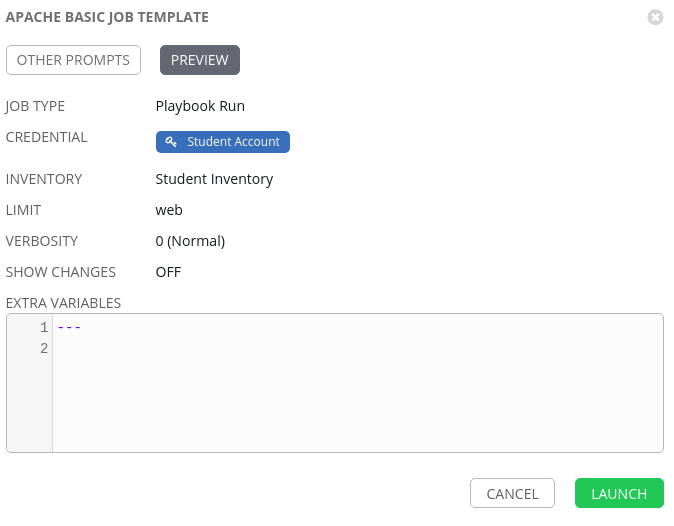
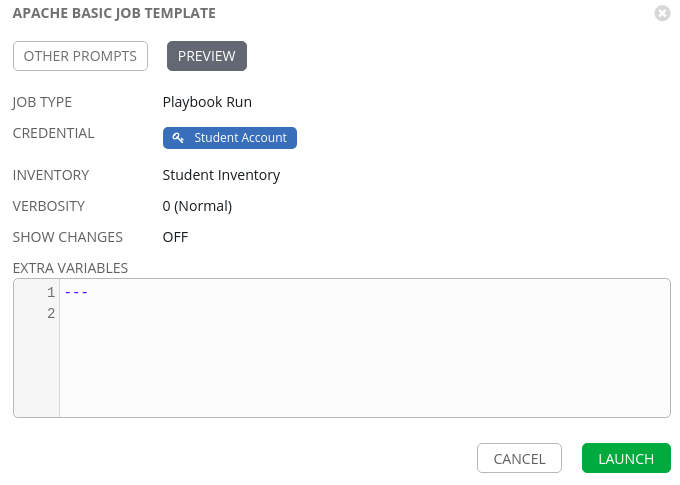
Tower-Basics

diff --git a/1-5-job-template/README.md b/1-5-job-template/README.md
@@ -30,17 +30,17 @@ Step 3:
 
 Complete the form using the following values
 
-| Key         | Value                                        | Prompt on Launch |
-|-------------|----------------------------------------------|------|
-| Name        | Apache Basic Job Template                       |      |
-| Description | Template for the apache basic playbook          |      |
-| JOB TYPE    | Run                                          |      |
-| INVENTORY   | Student Inventory                   |      |
-| PROJECT     | Ansible Workshop Project                     |      |
-| PLAYBOOK    | `install_apache.yml`                  |      |
-| CREDENTIAL  | Type: **Machine**. Name: **Student Account** |      |
-| LIMIT       | web                                      | Checked     |
-| OPTIONS     | [*] ENABLE PRIVILEGE ESCALATION                      |      |
+| Key         |Value                                   | Prompt on Launch |
+|-------------|----------------------------------------|------------------|
+| Name        | Apache Basic Job Template              |                  |
+| Description | Template for the apache basic playbook |                  |
+| JOB TYPE    | Run                                    |                  |
+| INVENTORY   | Student Inventory                      |                  |
+| PROJECT     | Ansible Workshop Project               |                  |
+| PLAYBOOK    | `install_apache.yml`                   |                  |
+| CREDENTIAL  | Student Account                        |                  |
+| LIMIT       |                                        | Checked          |
+| OPTIONS     | [*] ENABLE PRIVILEGE ESCALATION        |                  |
 
 Step 4:
 -------
@@ -74,7 +74,7 @@ Click the rocketship icon ![Add](images/at_launch_icon.png) for the
 Step 3:
 -------
 
-When prompted, we can change the scope from the web servers to a single node if desired.
+When prompted, we can change the scope for the job run, remember the playbook we limited it to 2 groups dev,qa we can run this as blank to target both groups or we could limit it to just dev, qa, node1 or node2
 
 ![Survey Prompt](images/4-survey-prompt.png)
 
@@ -118,16 +118,6 @@ Message](images/node1-site.png)
 
 ![Web Group
 Message](images/node2-site.png)
-
-Extra Credit
-============
-
-Now that you have Apache Installed, create a new playbook called
-*remove\_apache.yml* to stop and remove Apache.
-
-**Hint:** First stop the `httpd` service using the `service` module,
-then delete the `httpd` package using the `yum` module.
-Optionally, use the `file` module to delete the index page.
 
 End Result
 ==========

diff --git a/1-3-playbook/README.md b/1-3-playbook/README.md
@@ -232,3 +232,13 @@ You are ready to automate!
           msg: "http://{{ ansible_host }}"
 ```
 <!-- {% endraw %} -->
+
+Extra Credit
+============
+
+Now that you have Apache Installed, create a new playbook called
+*remove\_apache.yml* to stop and remove Apache.
+
+**Hint:** First stop the `httpd` service using the `service` module,
+then delete the `httpd` package using the `yum` module.
+Optionally, use the `file` module to delete the index page.
